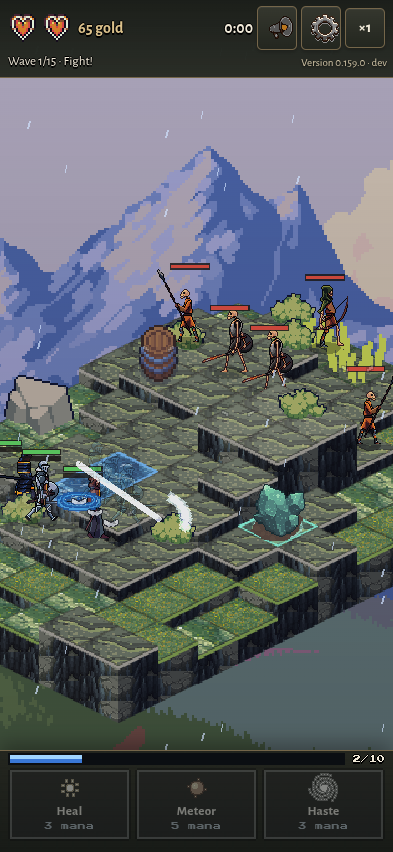
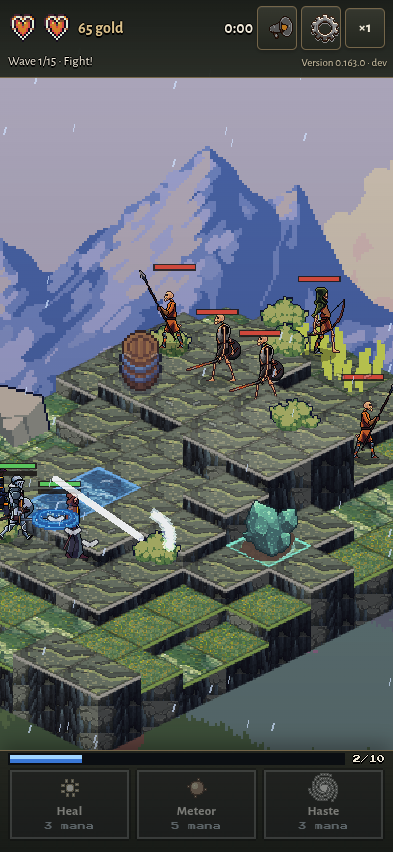
Record 0.163.0 release validation and owner acceptance

diff --git a/docs/TASKS.md b/docs/TASKS.md
@@ -9,7 +9,7 @@ The manager maintains the integrated board. Workers propose their task updates i
 
 ## Active work
 
-**FX-001 release integration** — Owner: Codex manager; branch `feat/combat-animation-polish`; scope: integrate released main changes, bump package metadata to 0.163.0, check affected rendering/revival paths, and merge through a GitHub pull request as authorised by the owner. Existing UI-002, HEART-001 and DIALOGUE-001 releases remain intact. Handoff: [combat animation polish](notes/combat-animation-polish.md).
+None assigned. FX-001 was accepted by the owner for release 0.163.0 and GitHub merge; UI-002, HEART-001 and DIALOGUE-001 remain intact.
 
 ## UI-001 manager takeover — 2026-10-26
 
@@ -32,6 +32,7 @@ Owner relayed the UI chat's report. GitHub confirms PR #118 is open and draft. T
 
 | ID | Task | Result | Reference |
 | --- | --- | --- | --- |
+| FX-001 | Combat animation polish | Done; owner accepted effects and authorised release 0.163.0 and GitHub merge; 104 implementation test files, 10 integration test files, typecheck, build and five browser cases passed | [PR #131](https://github.com/Hpatter9/legends-of-the-fall/pull/131), [handoff](notes/combat-animation-polish.md) |
 | UI-002 | Ornate company character cards | Done; owner accepted the implementation and authorised release 0.162.0 and GitHub merge; full test set and three portrait sizes validated | [Implementation and release handoff](notes/character-card-flair.md), branch `design/character-card-flair-mockup` |
 | HEART-001 | Hearts revive fallen heroes in the existing fight | Done; owner authorised merge into `work`, release 0.161.0; 103 test files, typecheck, build and portrait checks passed | [Handoff](notes/heart-resume.md) |
 | DIALOGUE-001 | Roughly 90% fewer fight conversation bubbles | Owner accepted and authorised merge, release 0.160.0; typecheck, build and dialogue tests pass; full suite stopped after 50 passes and 53 cancellations | [Handoff](notes/fight-bubbles.md), branch `reduce-fight-bubbles` |

diff --git a/docs/notes/combat-animation-polish.md b/docs/notes/combat-animation-polish.md
@@ -17,3 +17,7 @@ Typecheck and the production build passed on the final renderer source. All seve
 `tools/fxlab/polish-checks.mjs` uses the existing battle lab, captures impact, dash, cast and level-up examples at 393×852, 360×780 and 412×915, and checks reduced motion, battery saver, unchanged battle state for the injected dash effect, and effect cleanup. Screenshots and results go to ignored `out/fx-polish/`. Serve the production build on localhost:8000, set `PLAYWRIGHT_MODULE` if needed, and run the tool; `CHROMIUM_PATH` selects a system browser. Use `FX_CASE=393x852` (or another case tag) to refresh one case. These are controlled renderer fixtures, not a full playthrough. The fixture uses a seeded URL to bypass first-save starter selection and advances beyond the initial interpolation tick before freezing the pose.
 
 Selected implemented screenshots: [dash](../samples/combat-polish-dash-393x852.png), [level-up](../samples/combat-polish-level-393x852.png). [Browser results](../samples/combat-polish-checks.json) record all five cases. The 393×852 samples were refreshed after advancing the frozen fixture beyond the initial interpolation tick.
+
+## Release 0.163.0
+
+The owner requested the bump and merge through [PR #131](https://github.com/Hpatter9/legends-of-the-fall/pull/131). After integrating released main 0.162.0, typecheck and the production build passed; all 10 targeted effects, revival, battle-flow and dialogue test files passed. All five browser cases passed again on the 0.163.0 build, including all three portrait sizes, reduced motion and battery saver. The selected screenshots were refreshed from that build. The earlier full 104-file run applies to the implementation before main integration; expensive unchanged balance sweeps were not repeated locally at release time. The main-branch Pages workflow reruns the full suite and publishes after merge.
